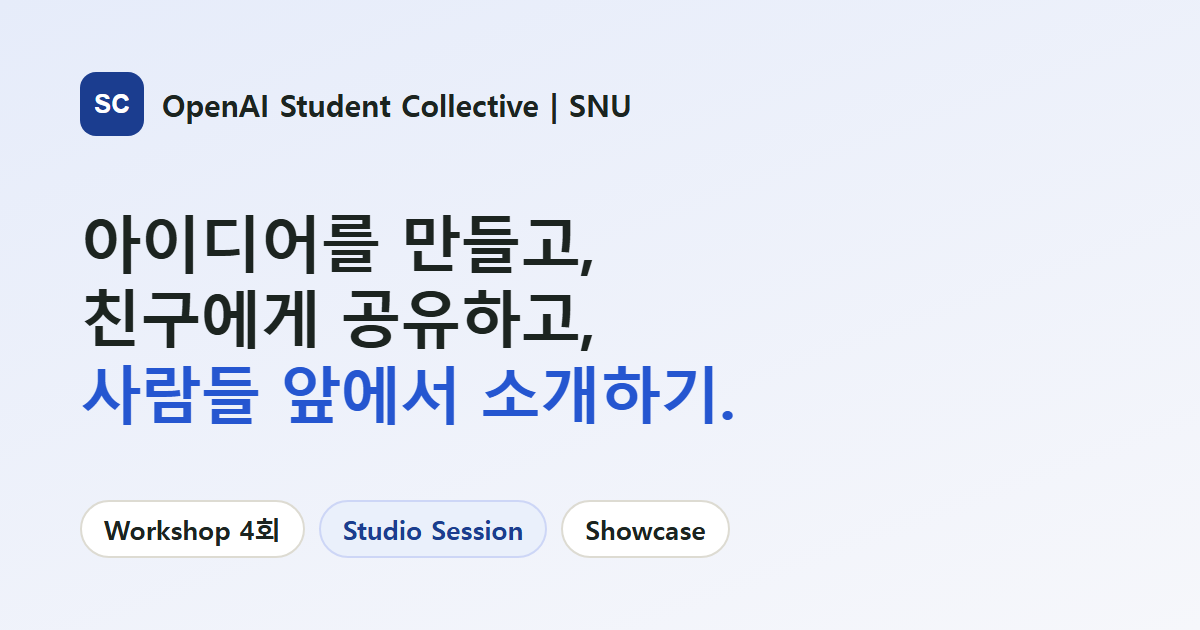
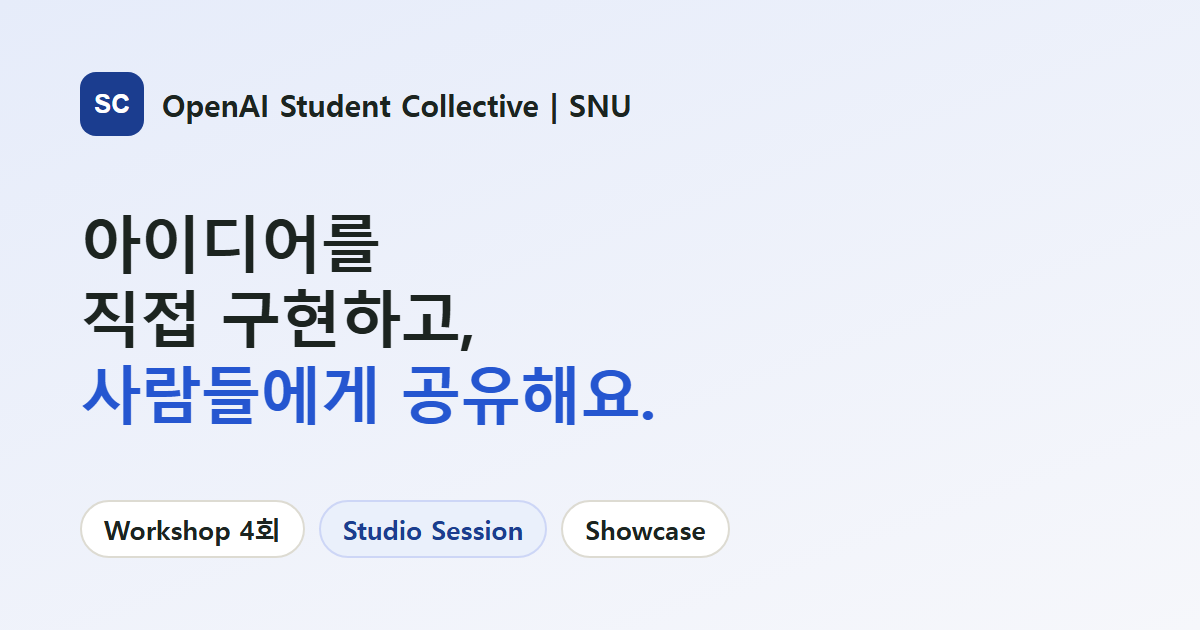
Reword the hero headline and show follow-along hints as numbered steps
Mark examples with "예)" and label numbered hint lines Step 1, Step 2...

Changed region(s): [[0.0617, 0.3317, 0.6167, 0.6937]]

diff --git a/portal/src/styles.css b/portal/src/styles.css
@@ -224,6 +224,10 @@ small { color: var(--muted); }
 .hints details.hint[open] > summary::before { transform: rotate(90deg); }
 .hints details.hint[open] .hint-verb { display: none; }
 .hint-text { padding: 0 14px 12px; line-height: 1.7; white-space: pre-line; }
+/* 순서대로 따라 하는 목록: 줄마다 Step 1, Step 2… 표시 */
+ol.step-list { margin: 0; padding: 0; list-style: none; counter-reset: step; display: grid; gap: 8px; white-space: normal; }
+ol.step-list > li { counter-increment: step; display: grid; grid-template-columns: 3.8em minmax(0, 1fr); gap: 8px; align-items: baseline; }
+ol.step-list > li::before { content: "Step " counter(step); color: var(--em); font-size: .8em; font-weight: 800; white-space: nowrap; }
 
 /* Copy blocks: 넘치는 코드는 블록 안에서만 가로로 스크롤합니다. */
 .copy-block { margin-top: 12px; border: 1px solid #d4dbea; border-radius: 12px; overflow: hidden; background: #f8faff; }

diff --git a/portal/scripts/og-image.html b/portal/scripts/og-image.html
@@ -20,7 +20,7 @@
 <body>
   <div class="card">
     <div class="top"><div class="mark">SC</div>OpenAI Student Collective | SNU</div>
-    <h1>아이디어를 만들고,<br>친구에게 공유하고,<br><em>사람들 앞에서 소개하기.</em></h1>
+    <h1>아이디어를<br>직접 구현하고,<br><em>사람들에게 공유해요.</em></h1>
     <div class="steps"><span>Workshop 4회</span><span class="studio">Studio Session</span><span>Showcase</span></div>
   </div>
 </body>
